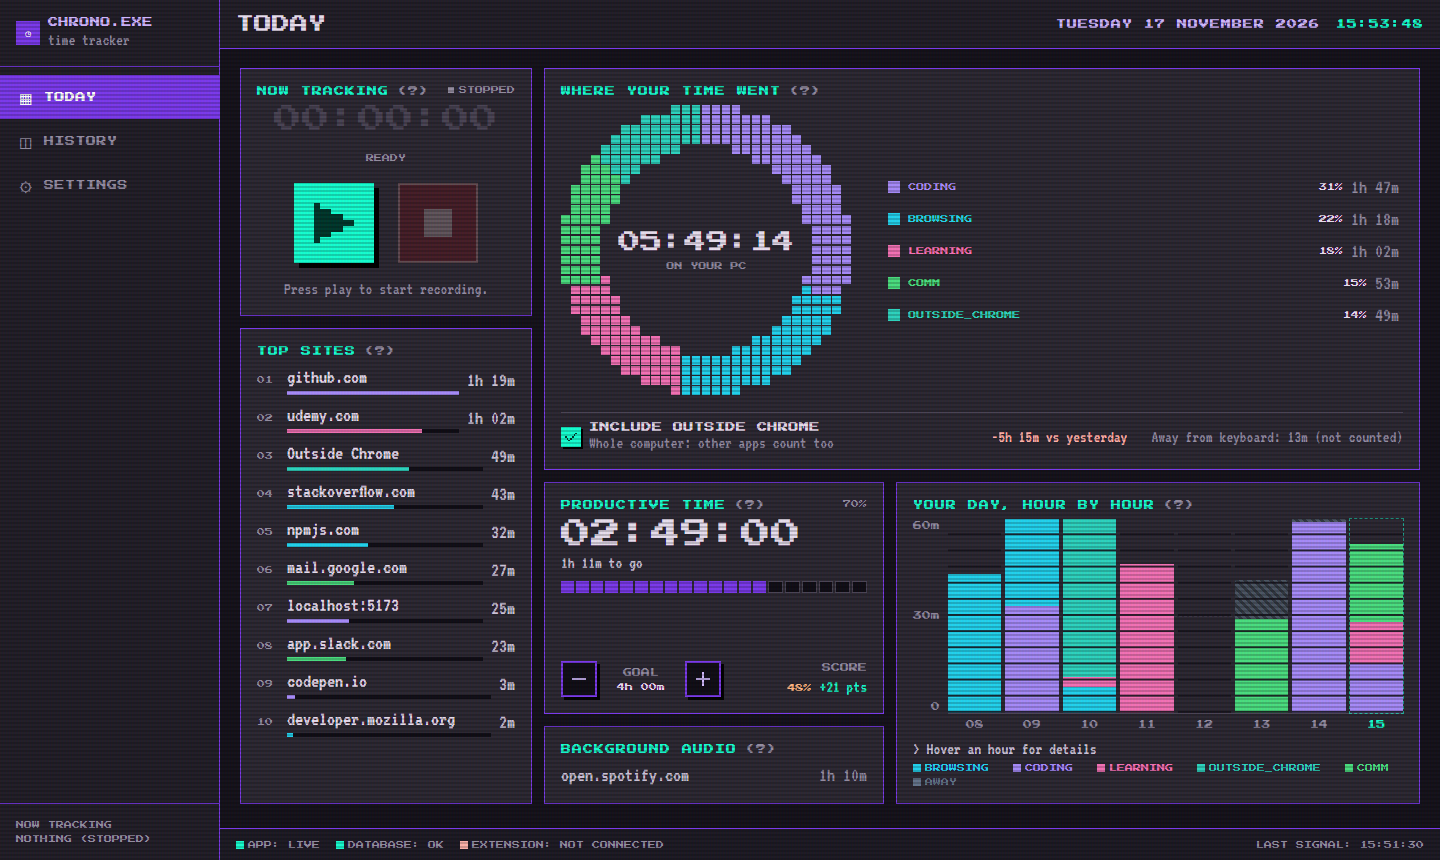
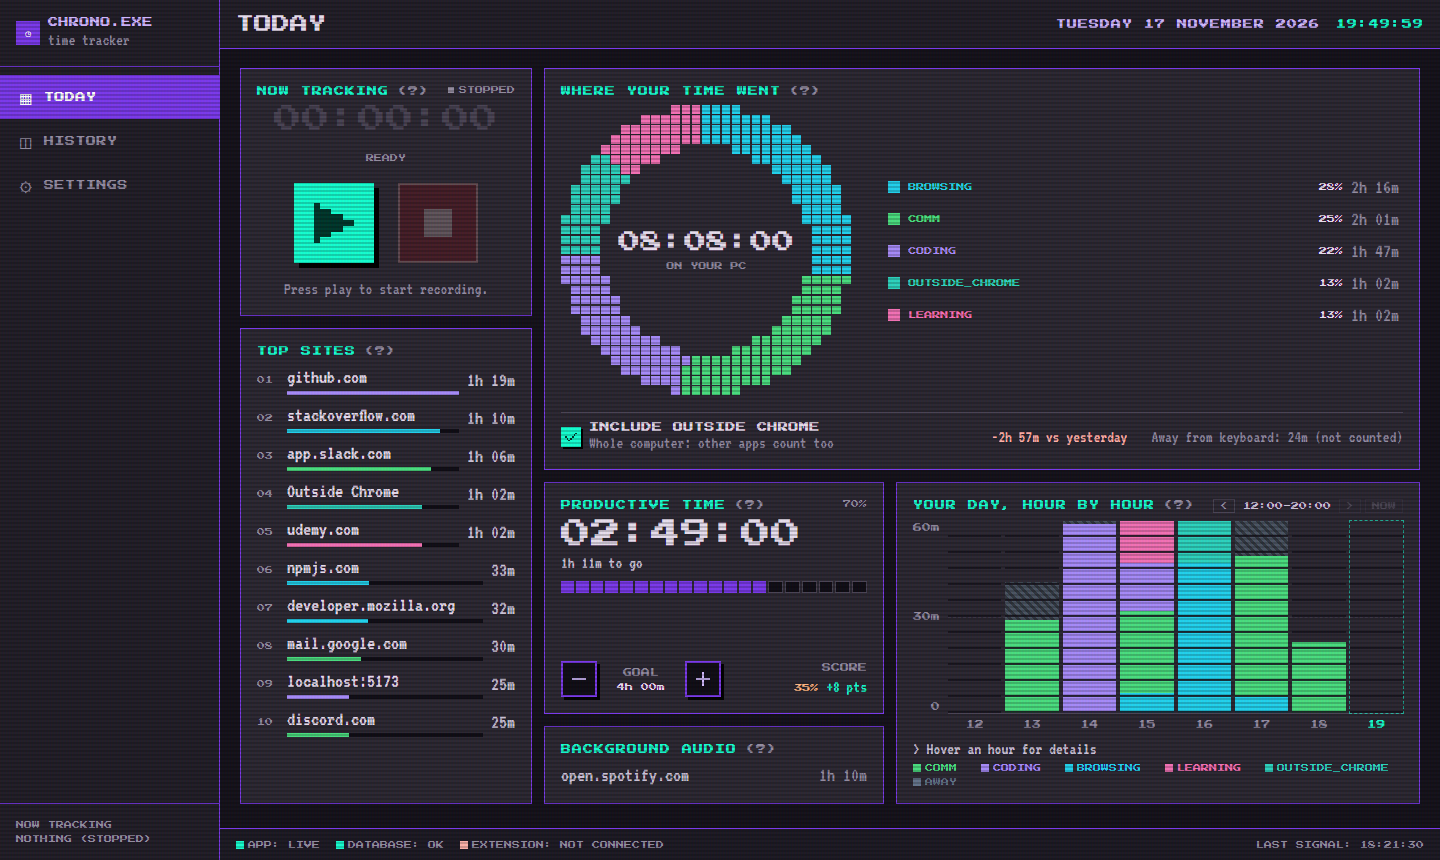
feat(timeline): scroll the hour-by-hour chart (8h window, arrows, NOW)

diff --git a/src/components/report/DayTimeline.tsx b/src/components/report/DayTimeline.tsx
@@ -1,6 +1,6 @@
 "use client";
 
-import { useState } from "react";
+import { useEffect, useState } from "react";
 import type { TimelineBlock } from "@/types";
 import { Widget } from "@/components/ui/Widget";
 import { CategoryBadge } from "@/components/ui/CategoryBadge";
@@ -41,8 +41,24 @@ export function DayTimeline({
 }) {
   const [hovered, setHovered] = useState<number | null>(null);
   const blocks = includeOutside ? allBlocks : allBlocks.filter((block) => block.category.name !== OUTSIDE_CHROME);
-  const buckets = hourlyBuckets(blocks, dayRange(date).start.getTime(), nowMs);
+  const dayStart = dayRange(date).start.getTime();
   const currentHour = nowMs !== undefined && date === dayKeyOf(nowMs) ? new Date(nowMs).getHours() : null;
+
+  // A window of hours, scrolled with the arrows. By default it ends at the
+  // current hour (today) or the last active hour (past days).
+  const windowSize = compact ? 8 : 12;
+  const natural = hourlyBuckets(blocks, dayStart, nowMs);
+  const latestEnd = currentHour !== null ? currentHour + 1 : natural.length > 0 ? natural[natural.length - 1].hour + 1 : 24;
+  const [scrolledEnd, setScrolledEnd] = useState<number | null>(null);
+  useEffect(() => setScrolledEnd(null), [date]);
+  const windowEnd = Math.min(latestEnd, Math.max(Math.min(windowSize, latestEnd), scrolledEnd ?? latestEnd));
+  const windowStart = Math.max(0, windowEnd - windowSize);
+  const buckets = natural.length === 0 ? [] : hourlyBuckets(blocks, dayStart, nowMs, { from: windowStart, to: windowEnd });
+  const step = windowSize / 2;
+  const canGoBack = windowStart > 0;
+  const canGoForward = windowEnd < latestEnd;
+  const navButton =
+    "border border-outline-variant px-[6px] py-[1px] text-ui-small text-outline enabled:hover:border-secondary-fixed enabled:hover:text-secondary-fixed disabled:cursor-not-allowed disabled:opacity-30";
   const hoveredBucket = buckets.find((bucket) => bucket.hour === hovered) ?? null;
 
   const legend = new Map<string, TimelineBlock["category"]>();
@@ -54,6 +70,30 @@ export function DayTimeline({
       hint="One column per hour: its height is how many minutes you were active in that hour (out of 60), colored by category. Hover a column for details."
       compact={compact}
       className={compact ? "h-full" : ""}
+      meta={
+        natural.length > 0 ? (
+          <span className="inline-flex items-center gap-xs normal-case">
+            <button type="button" className={navButton} onClick={() => setScrolledEnd(windowEnd - step)} disabled={!canGoBack} aria-label="Earlier hours" title="Earlier hours">
+              {"<"}
+            </button>
+            <span className="min-w-[96px] text-center text-ui-small text-on-surface-variant">
+              {pad(windowStart)}:00-{pad(windowEnd)}:00
+            </span>
+            <button type="button" className={navButton} onClick={() => setScrolledEnd(windowEnd + step)} disabled={!canGoForward} aria-label="Later hours" title="Later hours">
+              {">"}
+            </button>
+            <button
+              type="button"
+              className={navButton}
+              onClick={() => setScrolledEnd(null)}
+              disabled={!canGoForward}
+              title={currentHour !== null ? "Back to now" : "Back to the end of the day"}
+            >
+              {currentHour !== null ? "NOW" : "END"}
+            </button>
+          </span>
+        ) : undefined
+      }
     >
       {buckets.length === 0 ? (
         <Empty>No activity recorded yet.</Empty>

diff --git a/src/lib/hourly.ts b/src/lib/hourly.ts
@@ -21,7 +21,13 @@ export interface HourBucket {
  * From the first hour with activity to the last one (or the current hour, for
  * today). Hours in between with nothing recorded are kept, empty.
  */
-export function hourlyBuckets(blocks: TimelineBlock[], dayStartMs: number, nowMs?: number): HourBucket[] {
+export function hourlyBuckets(
+  blocks: TimelineBlock[],
+  dayStartMs: number,
+  nowMs?: number,
+  /** Exact hours to show [from, to), e.g. a scrolled window; empty hours included. */
+  range?: { from: number; to: number }
+): HourBucket[] {
   const dayEnd = dayStartMs + 24 * HOUR_MS;
   const spans = blocks
     .map((block) => ({
@@ -30,13 +36,20 @@ export function hourlyBuckets(blocks: TimelineBlock[], dayStartMs: number, nowMs
       end: Math.min(new Date(block.endTime).getTime(), dayEnd, nowMs ?? Infinity)
     }))
     .filter((span) => span.end > span.start);
-  if (spans.length === 0) return [];
+  if (spans.length === 0 && !range) return [];
 
-  let first = Math.floor((Math.min(...spans.map((span) => span.start)) - dayStartMs) / HOUR_MS);
-  let last = Math.ceil((Math.max(...spans.map((span) => span.end)) - dayStartMs) / HOUR_MS);
-  if (nowMs !== undefined && nowMs >= dayStartMs && nowMs < dayEnd) last = Math.max(last, Math.floor((nowMs - dayStartMs) / HOUR_MS) + 1);
-  first = Math.max(0, first);
-  last = Math.min(24, Math.max(last, first + 1));
+  let first: number;
+  let last: number;
+  if (range) {
+    first = Math.max(0, range.from);
+    last = Math.min(24, Math.max(range.to, first + 1));
+  } else {
+    first = Math.floor((Math.min(...spans.map((span) => span.start)) - dayStartMs) / HOUR_MS);
+    last = Math.ceil((Math.max(...spans.map((span) => span.end)) - dayStartMs) / HOUR_MS);
+    if (nowMs !== undefined && nowMs >= dayStartMs && nowMs < dayEnd) last = Math.max(last, Math.floor((nowMs - dayStartMs) / HOUR_MS) + 1);
+    first = Math.max(0, first);
+    last = Math.min(24, Math.max(last, first + 1));
+  }
 
   // Stable stacking order: biggest category of the day at the bottom.
   const totals = new Map<string, { category: BucketCategory; seconds: number }>();

diff --git a/__tests__/lib/hourly.test.ts b/__tests__/lib/hourly.test.ts
@@ -39,3 +39,14 @@ describe("hourlyBuckets", () => {
     expect(hourlyBuckets([], day)).toEqual([]);
   });
 });
+
+describe("hourlyBuckets with a window", () => {
+  it("returns exactly the requested hours, empty ones included", () => {
+    const blocks: TimelineBlock[] = [
+      { sessionId: "a", startTime: at(9), endTime: at(9, 30), category: cat("CODING"), isIdle: false, isActive: false, host: null }
+    ];
+    const window = hourlyBuckets(blocks, day, undefined, { from: 2, to: 10 });
+    expect(window.map((bucket) => bucket.hour)).toEqual([2, 3, 4, 5, 6, 7, 8, 9]);
+    expect(window[7].activeSeconds).toBe(1800);
+  });
+});
